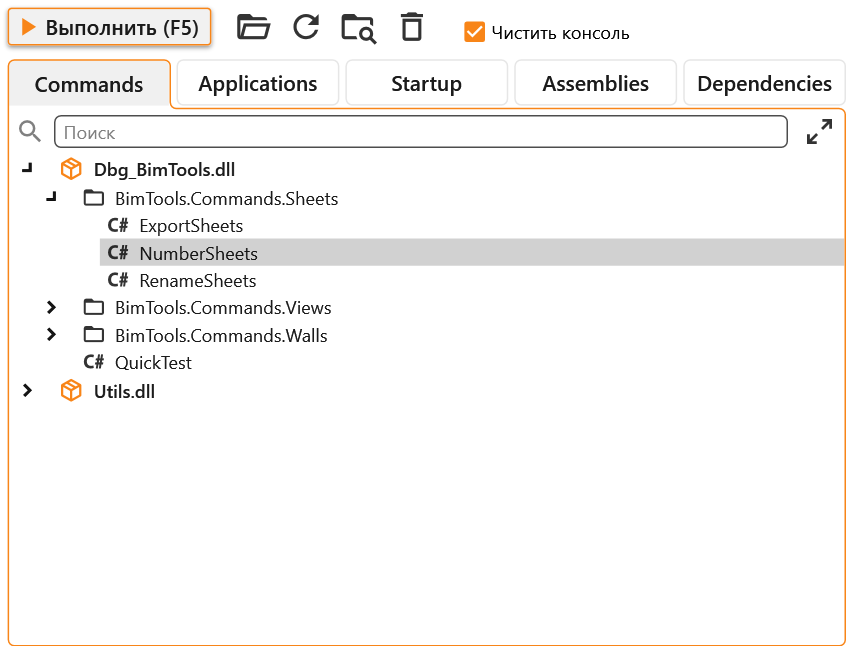
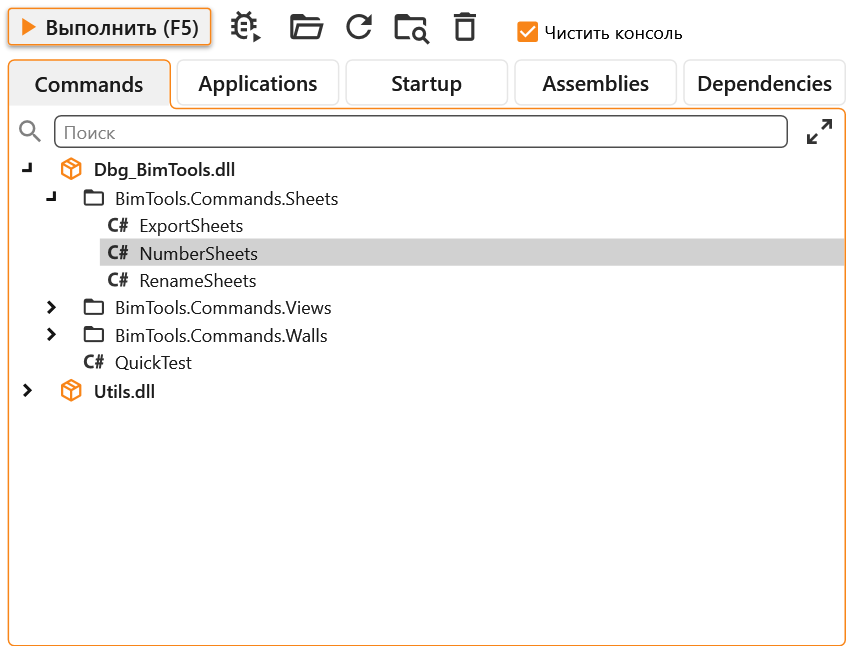
Run with debugger: scripts stop on their first line, DLL commands hit project breakpoints

Changed region(s): [[0.2766, 0.0, 0.7991, 0.0619]]

diff --git a/source/UI/ScriptEditor/ScriptEditorWindow.xaml b/source/UI/ScriptEditor/ScriptEditorWindow.xaml
@@ -37,6 +37,12 @@
                 </StackPanel>
             </Button>
 
+            <Button Width="25" Height="25" Margin="10 0 0 0" Padding="0" Command="{Binding RunWithDebuggerCommand}"
+                    Style="{StaticResource MaterialDesignFlatButton}"
+                    ToolTip="Запустить под отладчиком: подключить Visual Studio и остановиться на первой строке скрипта">
+                <materialDesign:PackIcon Kind="BugPlayOutline" Width="25" Height="25" Foreground="{StaticResource IconBrush}"/>
+            </Button>
+
             <Button Width="25" Height="25" Margin="15 0 0 0" Padding="0" Command="{Binding NewTabCommand}"
                     Style="{StaticResource MaterialDesignFlatButton}" ToolTip="Новая вкладка (Ctrl+N)">
                 <materialDesign:PackIcon Kind="FileCodeOutline" Width="25" Height="25" Foreground="{StaticResource IconBrush}"/>

diff --git a/source/UI/DllRunner/AssemblyRunnerWindow.xaml b/source/UI/DllRunner/AssemblyRunnerWindow.xaml
@@ -137,6 +137,12 @@
                 </StackPanel>
             </Button>
 
+            <Button Width="25" Height="25" Margin="10 0 0 0" Padding="0" Command="{Binding RunWithDebuggerCommand}"
+                    Style="{StaticResource MaterialDesignFlatButton}"
+                    ToolTip="Выполнить под отладчиком: подключить Visual Studio, точки останова в проекте сработают">
+                <materialDesign:PackIcon Kind="BugPlayOutline" Width="25" Height="25" Foreground="{StaticResource IconBrush}"/>
+            </Button>
+
             <Button Width="25" Height="25" Margin="15 0 0 0" Padding="0" Command="{Binding AddAssemblyCommand}"
                     Style="{StaticResource MaterialDesignFlatButton}" ToolTip="Добавить DLL (Ctrl+O)">
                 <materialDesign:PackIcon Kind="FolderOpenOutline" Width="25" Height="25" Foreground="{StaticResource IconBrush}"/>

diff --git a/source/Core/ScriptSource.cs b/source/Core/ScriptSource.cs
@@ -1,4 +1,7 @@
+using Microsoft.CodeAnalysis.CSharp;
+using Microsoft.CodeAnalysis.CSharp.Syntax;
 using System.Collections.Generic;
+using System.Linq;
 using System.Text;
 using System.Text.RegularExpressions;
 
@@ -37,7 +40,12 @@ namespace RevitDevKit.Core
             @"^\s*((public|internal|private|protected|sealed|abstract|static|partial|unsafe)\s+)*(class|struct|interface|record|enum|namespace)\s+[A-Za-z_@]",
             RegexOptions.Compiled | RegexOptions.Multiline);
 
-        public static PreparedSource Prepare(string userCode)
+        // Stops a script run under a debugger; does nothing when none is attached (Repeat Last, say).
+        private const string Break = "if (System.Diagnostics.Debugger.IsAttached) System.Diagnostics.Debugger.Break();";
+
+        // debugFile: under a debugger the lines map to this file (#line), the script's own or a snapshot of it,
+        // and the run stops on the script's first line or at the start of its entry method.
+        public static PreparedSource Prepare(string userCode, string debugFile = null)
         {
             if (userCode == null)
                 userCode = string.Empty;
@@ -61,8 +69,8 @@ namespace RevitDevKit.Core
             {
                 return new PreparedSource
                 {
-                    Code = withoutDirectives,
-                    LineOffset = 0,
+                    Code = debugFile == null ? withoutDirectives : Line(debugFile) + BreakInEntry(withoutDirectives),
+                    LineOffset = debugFile == null ? 0 : 1,
                     ExtraReferences = references
                 };
             }
@@ -86,15 +94,39 @@ namespace RevitDevKit.Core
             
             sb.Append('\n');
             sb.Append("namespace RevitDevKit.UserScripts { public class __ScriptEntry : RevitDevKit.Scripting.ScriptBase { public void Main() {\n");
+            if (debugFile != null)
+            {
+                // The break shows as the script's first line, which then runs on F10.
+                sb.Append(Line(debugFile)).Append(Break).Append('\n');
+                sb.Append(Line(debugFile));
+            }
+
             sb.Append(body);
             sb.Append("\n} } }\n");
 
             return new PreparedSource
             {
                 Code = sb.ToString(),
-                LineOffset = 2,
+                LineOffset = debugFile == null ? 2 : 5,
                 ExtraReferences = references
             };
+        }
+
+        private static string Line(string file) => "#line 1 \"" + file + "\"\n";
+
+        // The first Execute, Main or Run with a body stops at its opening brace; the break stays on that line,
+        // so the numbers of the lines do not change.
+        private static string BreakInEntry(string code)
+        {
+            var methods = CSharpSyntaxTree.ParseText(code).GetRoot().DescendantNodes().OfType<MethodDeclarationSyntax>()
+                .Where(m => m.Body != null).ToList();
+            var entry = new[] { "Execute", "Main", "Run" }
+                .Select(name => methods.FirstOrDefault(m => m.Identifier.ValueText == name))
+                .FirstOrDefault(m => m != null);
+            if (entry == null) return code;
+
+            var at = entry.Body.OpenBraceToken.Span.End;
+            return code.Substring(0, at) + " " + Break + code.Substring(at);
         }
     }
 }

diff --git a/source/UI/ScriptEditor/ScriptEditorVM.cs b/source/UI/ScriptEditor/ScriptEditorVM.cs
@@ -31,6 +31,7 @@ namespace RevitDevKit.UI.ScriptEditor
 
         [ObservableProperty]
         [NotifyCanExecuteChangedFor(nameof(RunCommand))]
+        [NotifyCanExecuteChangedFor(nameof(RunWithDebuggerCommand))]
         private bool _isRunning;
 
         private int _untitledCounter;
@@ -213,7 +214,29 @@ namespace RevitDevKit.UI.ScriptEditor
         private bool CanRun() => !IsRunning;
 
         [RelayCommand(CanExecute = nameof(CanRun))]
-        private async Task RunAsync()
+        private Task RunAsync() => RunCoreAsync(debug: false);
+
+        // Asks to attach a debugger first; the script then stops on its first line.
+        [RelayCommand(CanExecute = nameof(CanRun))]
+        private Task RunWithDebuggerAsync() => RunCoreAsync(debug: true);
+
+        // The file the debugger shows: the tab's own when it is saved as it is, otherwise a snapshot of the text.
+        private static string DebugFile(ScriptTabVM tab, string code)
+        {
+            if (tab.HasFile && !tab.IsDirty && File.Exists(tab.FilePath))
+                return tab.FilePath;
+
+            var dir = Path.Combine(Path.GetTempPath(), "RevitDevKit", "Debug");
+            Directory.CreateDirectory(dir);
+            var name = string.Concat((tab.Title ?? "Скрипт").Select(c => Path.GetInvalidFileNameChars().Contains(c) ? '_' : c));
+            if (!name.EndsWith(".cs", StringComparison.OrdinalIgnoreCase)) name += ".cs";
+
+            var path = Path.Combine(dir, name);
+            File.WriteAllText(path, code, System.Text.Encoding.UTF8);
+            return path;
+        }
+
+        private async Task RunCoreAsync(bool debug)
         {
             var tab = SelectedTab;
             if (tab == null) return;
@@ -233,11 +256,18 @@ namespace RevitDevKit.UI.ScriptEditor
             var title = tab.Title;
             var autoTransaction = IsAutoTransaction;
 
+            string debugFile = null;
+            if (debug && DebugLaunch.TryAttach())
+            {
+                debugFile = DebugFile(tab, code);
+                ConsoleOutput.Info("Отладка: остановка на первой строке скрипта, файл " + debugFile);
+            }
+
             // An exception escaping an async command would reach Revit's dispatcher - catch it here.
             CompileResult result;
             try
             {
-                result = await Task.Run(() => ScriptCompiler.Compile(code));
+                result = await Task.Run(() => ScriptCompiler.Compile(code, debugFile));
             }
             catch (Exception ex)
             {

diff --git a/source/UI/DllRunner/AssemblyRunnerVM.cs b/source/UI/DllRunner/AssemblyRunnerVM.cs
@@ -25,6 +25,7 @@ namespace RevitDevKit.UI.DllRunner
 
         [ObservableProperty]
         [NotifyCanExecuteChangedFor(nameof(RunCommand))]
+        [NotifyCanExecuteChangedFor(nameof(RunWithDebuggerCommand))]
         [NotifyCanExecuteChangedFor(nameof(ReloadAssemblyCommand))]
         [NotifyCanExecuteChangedFor(nameof(RemoveAssemblyCommand))]
         [NotifyCanExecuteChangedFor(nameof(RevealInExplorerCommand))]
@@ -32,6 +33,7 @@ namespace RevitDevKit.UI.DllRunner
 
         [ObservableProperty]
         [NotifyCanExecuteChangedFor(nameof(RunCommand))]
+        [NotifyCanExecuteChangedFor(nameof(RunWithDebuggerCommand))]
         private bool _isRunning;
 
         public ObservableCollection<AssemblyNodeVM> Assemblies { get; } = [];
@@ -230,6 +232,19 @@ namespace RevitDevKit.UI.DllRunner
         }
 
         private bool CanRun(TargetNodeVM node) => (node ?? SelectedNode as TargetNodeVM) != null && !IsRunning;
+
+        // The DLL's symbols load with its copy, so breakpoints set in the project in Visual Studio bind.
+        [RelayCommand(CanExecute = nameof(CanRun))]
+        private void RunWithDebugger(TargetNodeVM node)
+        {
+            node ??= SelectedNode as TargetNodeVM;
+            if (node == null) return;
+
+            if (DebugLaunch.TryAttach())
+                ConsoleOutput.Info("Отладчик подключён: точки останова в проекте " + node.Owner.DisplayName + " сработают.");
+
+            Run(node);
+        }
 
         [RelayCommand(CanExecute = nameof(CanRun))]
         // Always resolves the command from the DLL on disk, so a rebuilt class with the same

diff --git a/source/Core/DebugLaunch.cs b/source/Core/DebugLaunch.cs
@@ -1,0 +1,35 @@
+using System;
+using System.Diagnostics;
+
+namespace RevitDevKit.Core
+{
+    // "Run with debugger": Windows asks which debugger to attach, an open Visual Studio among them,
+    // and the run goes on under it. A DLL command's symbols load with its copy, so breakpoints set in
+    // the project bind; a script stops on its first line.
+    public static class DebugLaunch
+    {
+        // Tests answer for the debugger.
+        public static Func<bool> Attach { get; set; } = AttachDebugger;
+
+        public static bool TryAttach()
+        {
+            bool attached;
+            try
+            {
+                attached = Attach();
+            }
+            catch (Exception ex)
+            {
+                ConsoleOutput.Debug("Debugger.Launch: " + ex.Message);
+                attached = false;
+            }
+
+            if (!attached)
+                ConsoleOutput.Warning("Отладчик не подключён: запуск без отладки.");
+
+            return attached;
+        }
+
+        private static bool AttachDebugger() => Debugger.IsAttached || Debugger.Launch() && Debugger.IsAttached;
+    }
+}

diff --git a/source/Core/ScriptCompiler.cs b/source/Core/ScriptCompiler.cs
@@ -45,12 +45,12 @@ namespace RevitDevKit.Core
 
         private static readonly object CacheSync = new object();
 
-        public static CompileResult Compile(string userCode)
+        public static CompileResult Compile(string userCode, string debugFile = null)
         {
             var sw = Stopwatch.StartNew();
             var messages = new List<CompileMessage>();
 
-            var prepared = ScriptSource.Prepare(userCode);
+            var prepared = ScriptSource.Prepare(userCode, debugFile);
             var assemblyName = "RevitScript_" + Guid.NewGuid().ToString("N");
 
             var syntaxTree = CSharpSyntaxTree.ParseText(prepared.Code, CreateParseOptions(), assemblyName + ".cs", Encoding.UTF8);

diff --git a/README.ru.md b/README.ru.md
@@ -32,6 +32,8 @@
 
 Скрипты сохраняются в `%AppData%\RevitDevKit\Scripts`, если не выбрать другую папку. По правой кнопке на вкладке её можно закрыть, сохранить под другим именем («Сохранить как…», это же кнопка на панели и Ctrl+Shift+S), а у вкладки, сохранённой в файл, показать файл в проводнике. Repeat Last на ленте повторяет скрипт в том виде, в каком его скомпилировали: правки применятся после F5 в редакторе.
 
+Кнопка с жуком рядом с «Запустить» запускает скрипт под отладчиком. Windows спросит, какой отладчик подключить, в списке есть и открытая Visual Studio, и выполнение остановится на первой строке скрипта, а у класса в начале `Execute`, `Main` или `Run`. Дальше по скрипту можно идти F10 и F11 и ставить в нём точки останова. Отладчик показывает сам файл скрипта, если вкладка сохранена без правок, иначе копию текста в `%TEMP%\RevitDevKit\Debug`.
+
 Редактор подсказывает по ходу набора: после точки показывает члены типа, после `(` показывает перегрузки метода с описанием параметров из документации Revit API. После `<` у обобщённого метода в списке остаются только подходящие типы: `All<` предложит классы элементов, а `walls.OfType<` первыми покажет наследники элемента коллекции. Скобки `()`, `[]`, `{}`, `<>` у обобщённых и кавычки закрываются сами, Enter между `{}` открывает блок.
 
 Alt и выделение мышью или Shift+Alt и стрелки ставят курсор сразу на несколько строк, как в Visual Studio. Набранный текст попадает во все строки, Tab и Shift+Tab сдвигают их вместе, стрелки двигают все курсоры. В этом режиме подсказки не открываются и скобки не закрываются.
@@ -80,7 +82,7 @@ Tx("Пометить стены", () =>
 
 <img src="assets/dll-runner-commands.png" width="580" alt="Add-in Explorer, вкладка Commands" />
 
-Добавляете собранную DLL, и в списке появляются её `IExternalCommand`, сгруппированные по пространствам имён. Двойной щелчок или F5 запускает команду. Файл DLL при этом не блокируется, поэтому проект можно пересобирать, не закрывая Revit. Команда каждый раз берётся из текущей DLL на диске, так что после сборки её достаточно просто запустить снова. Кнопка «Обновить» нужна, только если появились новые команды. Как и в редакторе, галочка «Чистить консоль» очищает консоль перед каждым запуском.
+Добавляете собранную DLL, и в списке появляются её `IExternalCommand`, сгруппированные по пространствам имён. Двойной щелчок или F5 запускает команду. Файл DLL при этом не блокируется, поэтому проект можно пересобирать, не закрывая Revit. Команда каждый раз берётся из текущей DLL на диске, так что после сборки её достаточно просто запустить снова. Кнопка «Обновить» нужна, только если появились новые команды. Как и в редакторе, галочка «Чистить консоль» очищает консоль перед каждым запуском. Кнопка с жуком выполняет команду под отладчиком: подключите Visual Studio с решением надстройки, и точки останова в проекте сработают.
 
 Окно при запуске закрывается. Чтобы после правок запустить ту же команду ещё раз, не нужно снова открывать Add-in Explorer: соберите проект и нажмите на ленте Repeat Last. Команда запустится из свежей DLL. Кнопке Repeat Last можно назначить горячую клавишу в Revit.
 

diff --git a/README.md b/README.md
@@ -34,6 +34,8 @@ The **Примеры** (Samples) menu has a few ready-made scripts. The **Авт
 
 Scripts are saved to `%AppData%\RevitDevKit\Scripts` unless you pick another folder. A right click on a tab closes it, saves it under another name (**Сохранить как…**, also a toolbar button and Ctrl+Shift+S), and for a tab saved to a file shows the file in Explorer. Repeat Last on the ribbon repeats a script as it was compiled: edits take effect after F5 in the editor.
 
+The bug button next to **Запустить** (Run) runs the script under a debugger. Windows asks which debugger to attach, an open Visual Studio among them, and the run stops on the first line of the script, or at the start of `Execute`, `Main` or `Run` of a class. From there F10 and F11 step through the script and breakpoints can be set in it. The debugger shows the script's own file when the tab is saved as it is, otherwise a copy of the text in `%TEMP%\RevitDevKit\Debug`.
+
 The editor suggests as you type: after a dot it lists the members of the type, after `(` it shows the method's overloads with parameter descriptions from the Revit API documentation. After `<` of a generic method the list keeps only the types that fit: `All<` offers element classes, and `walls.OfType<` puts the subclasses of the collection's element first. Brackets `()`, `[]`, `{}`, `<>` of generics and quotes close by themselves, and Enter between `{}` opens a block.
 
 Alt with a mouse selection, or Shift+Alt with the arrow keys, puts a caret on several lines at once, as in Visual Studio. Typed text goes into every line, Tab and Shift+Tab shift them together, and the arrow keys move all the carets. In this mode no suggestions open and no brackets close.
@@ -82,7 +84,7 @@ In the output of `Compare`, `-нет-` (none) means the element has no such para
 
 <img src="assets/dll-runner-commands.png" width="580" alt="Add-in Explorer, the Commands tab" />
 
-Add a built DLL, and its `IExternalCommand` classes appear in the list, grouped by namespace. A double click or F5 runs a command. The DLL file is not locked, so the project can be rebuilt without closing Revit. The command is taken from the DLL on disk every time, so after a build just run it again. The **Обновить** (Refresh) button is needed only when new commands appear. As in the editor, **Чистить консоль** (clear console) clears the console before each run.
+Add a built DLL, and its `IExternalCommand` classes appear in the list, grouped by namespace. A double click or F5 runs a command. The DLL file is not locked, so the project can be rebuilt without closing Revit. The command is taken from the DLL on disk every time, so after a build just run it again. The **Обновить** (Refresh) button is needed only when new commands appear. As in the editor, **Чистить консоль** (clear console) clears the console before each run. The bug button runs the command under a debugger: attach the Visual Studio with the add-in's solution, and breakpoints set in the project are hit.
 
 The window closes when a command runs. To run the same command again after changes, there is no need to open Add-in Explorer: build the project and press Repeat Last on the ribbon, and the command runs from the fresh DLL. Repeat Last can be given a keyboard shortcut in Revit.
 
